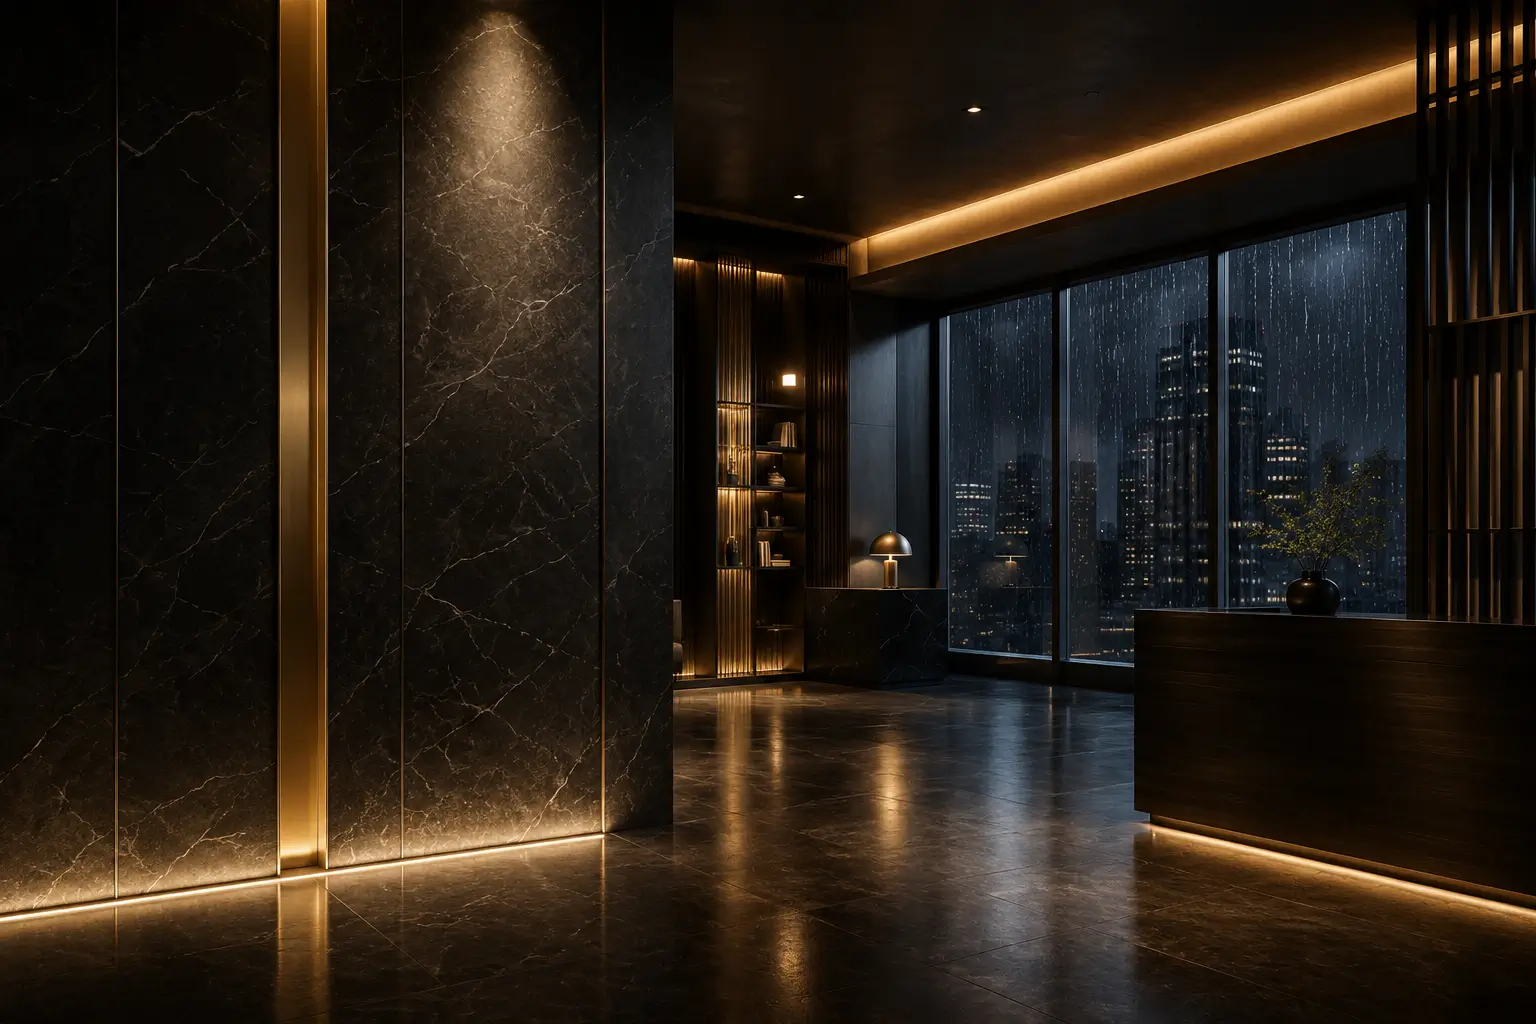
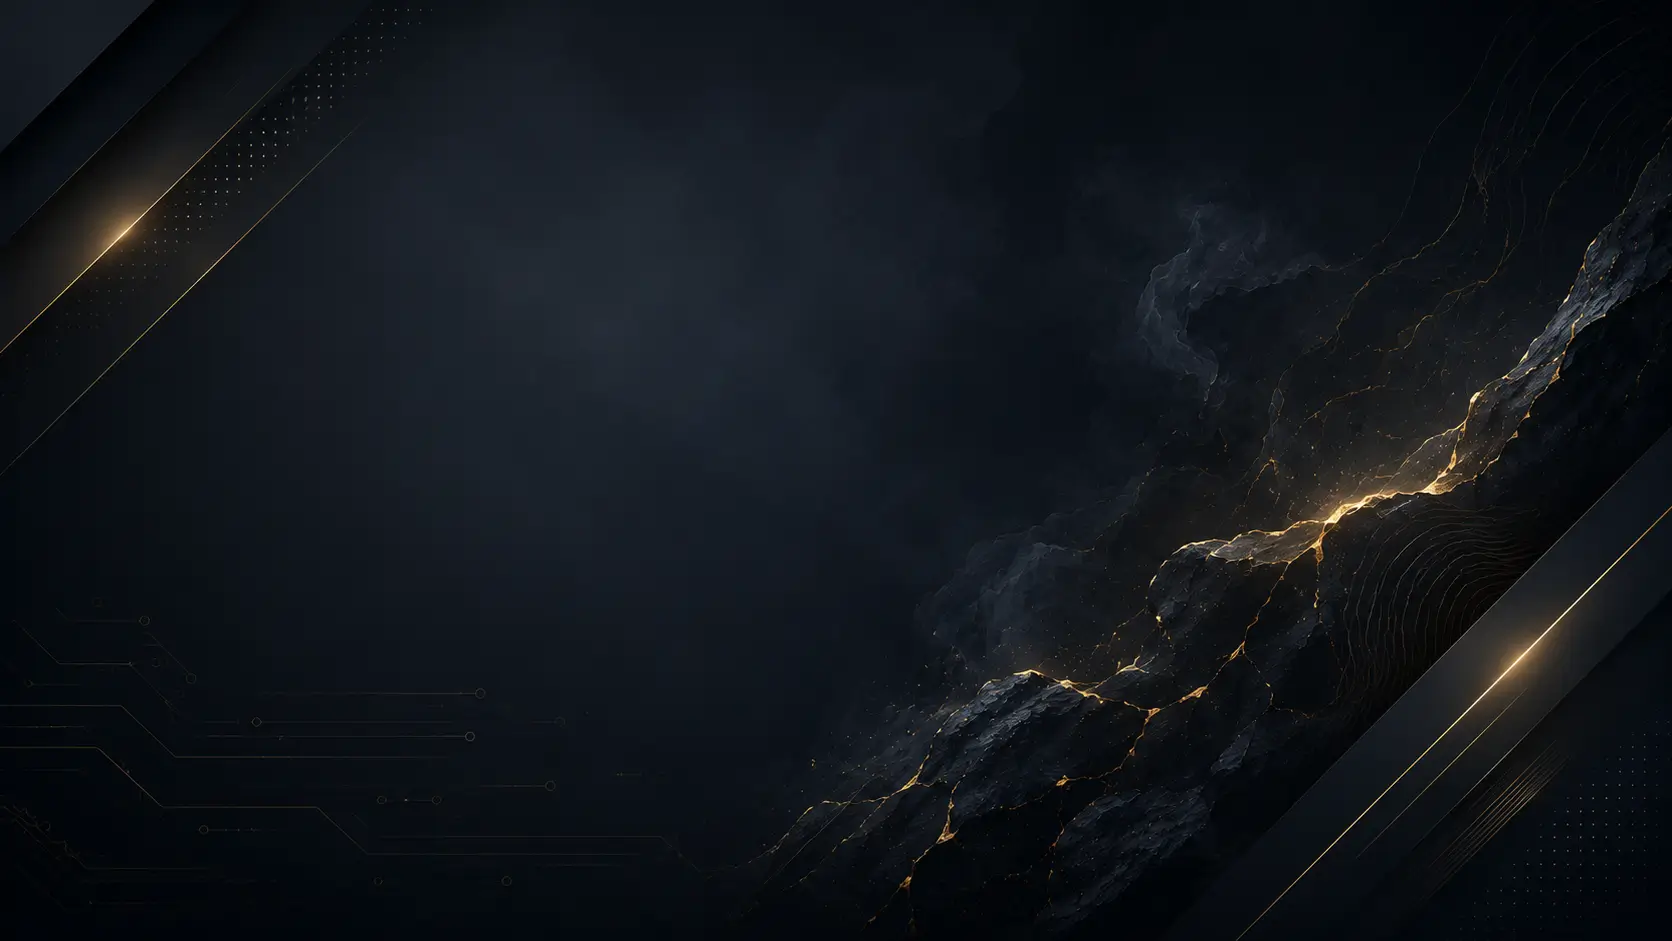
feat(home): refine hero layout, unified background, and navigation presentation

diff --git a/frontend/src/styles/navigation.css b/frontend/src/styles/navigation.css
@@ -1,5 +1,30 @@
 .app-shell {
   --navigation-height: 4.5rem;
+  --page-background-image: none;
+  --page-background-opacity: 0.74;
+}
+
+.app-shell--home {
+  --page-background-image: url("../assets/images/backgrounds/background-home-hero.webp");
+}
+
+.app-shell--with-page-background {
+  position: relative;
+  isolation: isolate;
+  background: transparent;
+}
+
+.app-shell--with-page-background::before {
+  content: "";
+  position: fixed;
+  inset: 0;
+  z-index: -2;
+  background-image: var(--page-background-image);
+  background-position: center;
+  background-size: cover;
+  background-repeat: no-repeat;
+  opacity: var(--page-background-opacity);
+  pointer-events: none;
 }
 
 .app-shell__content {
@@ -14,39 +39,50 @@
   background: rgba(11, 11, 13, 0.94);
   border-bottom: 1px solid var(--color-border-default);
   box-shadow: var(--shadow-soft);
+  backdrop-filter: blur(1rem);
+}
+
+.app-shell--with-page-background .site-header {
+  background: transparent;
+  box-shadow: none;
+  backdrop-filter: none;
 }
 
 .site-nav {
   min-height: var(--navigation-height);
   display: flex;
   align-items: center;
-  gap: var(--space-lg);
+  gap: var(--space-xl);
 }
 
 .site-nav__brand {
   display: inline-flex;
-  min-height: 2.75rem;
   align-items: center;
-  color: var(--color-text-primary);
-  font: var(--type-navigation);
-  letter-spacing: 0;
+  justify-content: center;
+  width: 2.625rem;
+  height: 2.625rem;
+  flex: 0 0 auto;
   text-decoration: none;
-  white-space: nowrap;
+  border-radius: var(--radius-lg);
   transition: var(--motion-transition-interactive);
 }
 
 .site-nav__brand:hover,
 .site-nav__brand:focus-visible {
-  color: var(--color-gold-hover);
   transform: var(--motion-hover-raise);
+}
+
+.site-nav__brand img {
+  width: 2.625rem;
+  height: 2.625rem;
 }
 
 .site-nav__menu {
   flex: 1;
   display: flex;
   align-items: center;
-  justify-content: space-between;
-  gap: var(--space-xl);
+  justify-content: flex-end;
+  gap: var(--space-lg);
 }
 
 .site-nav__links,
@@ -58,6 +94,7 @@
 
 .site-nav__link,
 .site-nav__external-link {
+  position: relative;
   min-height: 2.75rem;
   display: inline-flex;
   align-items: center;
@@ -71,7 +108,32 @@
 }
 
 .site-nav__link:hover,
-.site-nav__link:focus-visible,
+.site-nav__link:focus-visible {
+  color: var(--color-gold-hover);
+  text-decoration: none;
+}
+
+.site-nav__link::after {
+  content: "";
+  position: absolute;
+  left: var(--space-sm);
+  right: var(--space-sm);
+  bottom: 0.45rem;
+  height: 1px;
+  background: currentColor;
+  opacity: 0;
+  transform: scaleX(0.35);
+  transform-origin: center;
+  transition: var(--motion-transition-interactive);
+}
+
+.site-nav__link:hover::after,
+.site-nav__link:focus-visible::after,
+.site-nav__link--active::after {
+  opacity: 1;
+  transform: scaleX(1);
+}
+
 .site-nav__external-link:hover,
 .site-nav__external-link:focus-visible {
   background: var(--color-surface);
@@ -81,21 +143,21 @@
 }
 
 .site-nav__link--active {
-  background: var(--color-surface);
   color: var(--color-gold-primary);
-  box-shadow: inset 0 -1px 0 var(--color-border-hover);
 }
 
 .site-nav__external-link img {
   width: 1rem;
   height: 1rem;
-  filter: invert(89%) sepia(8%) saturate(101%) hue-rotate(201deg) brightness(89%) contrast(86%);
+  filter: invert(89%) sepia(8%) saturate(101%) hue-rotate(201deg)
+    brightness(89%) contrast(86%);
   transition: var(--motion-transition-media);
 }
 
 .site-nav__external-link:hover img,
 .site-nav__external-link:focus-visible img {
-  filter: invert(82%) sepia(58%) saturate(436%) hue-rotate(1deg) brightness(95%) contrast(88%);
+  filter: invert(82%) sepia(58%) saturate(436%) hue-rotate(1deg) brightness(95%)
+    contrast(88%);
 }
 
 .site-nav__toggle {
@@ -120,13 +182,18 @@
 .site-nav__toggle img {
   width: 1.25rem;
   height: 1.25rem;
-  filter: invert(97%) sepia(5%) saturate(116%) hue-rotate(354deg) brightness(97%) contrast(96%);
+  filter: invert(97%) sepia(5%) saturate(116%) hue-rotate(354deg)
+    brightness(97%) contrast(96%);
   transition: var(--motion-transition-media);
 }
 
 .site-footer {
   border-top: 1px solid var(--color-border-default);
   background: var(--color-background-secondary);
+}
+
+.app-shell--with-page-background .site-footer {
+  background: transparent;
 }
 
 .site-footer .page-container {
@@ -193,7 +260,8 @@
 
   .site-nav__menu[data-open="true"] {
     display: flex;
-    animation: dialog-enter var(--motion-duration-base) var(--motion-ease-standard) both;
+    animation: dialog-enter var(--motion-duration-base)
+      var(--motion-ease-standard) both;
   }
 
   .site-nav__links,

diff --git a/frontend/src/styles/home.css b/frontend/src/styles/home.css
@@ -1,16 +1,18 @@
 .home-page {
+  --home-footer-height: calc(4rem + 1px);
+
   min-height: 100%;
-  background: var(--color-background-primary);
+  background: transparent;
 }
 
 .home-hero {
   position: relative;
   isolation: isolate;
-  min-height: calc(100svh - var(--navigation-height) - 4rem);
+  min-height: calc(100svh - var(--navigation-height) - var(--home-footer-height));
   display: grid;
   align-items: center;
   overflow: hidden;
-  background: var(--color-background-primary);
+  background: transparent;
 }
 
 .home-hero::before {
@@ -20,34 +22,16 @@
   z-index: -1;
   border: 1px solid var(--color-border-default);
   border-radius: var(--radius-lg);
+  background: transparent;
   pointer-events: none;
-}
-
-.home-hero__background {
-  position: absolute;
-  inset: 0;
-  z-index: -2;
-  display: flex;
-  align-items: center;
-  justify-content: flex-end;
-  padding-inline: var(--container-gutter);
-  background: var(--color-background-primary);
-  pointer-events: none;
-}
-
-.home-hero__background img {
-  width: min(44rem, 72vw);
-  opacity: 0.08;
-  filter: saturate(0.8);
-  transition: var(--motion-transition-media);
 }
 
 .home-hero__content {
   position: relative;
   display: grid;
-  gap: var(--space-lg);
+  gap: var(--space-md);
   align-content: center;
-  padding-block: var(--space-4xl);
+  padding-block: clamp(var(--space-4xl), 12vh, 8rem);
 }
 
 .home-hero__eyebrow {
@@ -58,16 +42,18 @@
 .home-hero h1 {
   max-width: 16ch;
   font: var(--type-hero);
+  text-shadow: 0 0.5rem 2rem rgba(0, 0, 0, 0.36);
 }
 
 .home-hero__introduction {
-  max-width: 42rem;
+  max-width: 39rem;
   color: var(--color-text-secondary);
   font: var(--type-body-large);
 }
 
 .home-hero__mission {
-  max-width: 40rem;
+  max-width: 36rem;
+  margin-top: var(--space-xs);
   padding: var(--space-md) 0 var(--space-md) var(--space-lg);
   border-left: 1px solid var(--color-border-hover);
 }
@@ -109,20 +95,12 @@
 
 @media (max-width: 48rem) {
   .home-hero {
-    min-height: auto;
+    min-height: calc(100svh - var(--navigation-height) - var(--home-footer-height));
     align-items: start;
   }
 
   .home-hero::before {
     inset: var(--space-md);
-  }
-
-  .home-hero__background {
-    justify-content: center;
-  }
-
-  .home-hero__background img {
-    width: min(28rem, 110vw);
   }
 
   .home-hero__content {

diff --git a/frontend/src/App.jsx b/frontend/src/App.jsx
@@ -1,4 +1,4 @@
-import { Route, Routes } from 'react-router-dom';
+import { Route, Routes, useLocation } from 'react-router-dom';
 import Footer from './components/Footer.jsx';
 import Navigation from './components/Navigation.jsx';
 import About from './pages/About.jsx';
@@ -10,8 +10,15 @@ import Projects from './pages/Projects.jsx';
 import './styles/navigation.css';
 
 function App() {
+  const { pathname } = useLocation();
+  const isHomePage = pathname === '/';
+
   return (
-    <div className="app-shell">
+    <div
+      className={
+        isHomePage ? 'app-shell app-shell--with-page-background app-shell--home' : 'app-shell'
+      }
+    >
       <Navigation />
       <main className="app-shell__content">
         <Routes>

diff --git a/frontend/src/components/HomeHero.jsx b/frontend/src/components/HomeHero.jsx
@@ -3,10 +3,6 @@ import { Link } from 'react-router-dom';
 function HomeHero() {
   return (
     <section className="home-hero" aria-labelledby="home-hero-title">
-      <div className="home-hero__background" aria-hidden="true">
-        <img src="/favicon.svg" alt="" />
-      </div>
-
       <div className="home-hero__content page-container">
         <p className="home-hero__eyebrow">Software Developer Portfolio</p>
         <h1 id="home-hero-title">donwilson-dev</h1>
@@ -18,7 +14,7 @@ function HomeHero() {
           <p>&ldquo;Does it serve a purpose, and do I enjoy looking at it?&rdquo;</p>
         </blockquote>
         <Link className="home-hero__cta" to="/projects">
-          View Projects
+          Explore Projects
         </Link>
       </div>
     </section>

diff --git a/frontend/src/components/Navigation.jsx b/frontend/src/components/Navigation.jsx
@@ -41,7 +41,8 @@ function Navigation() {
     <header className="site-header">
       <nav className="site-nav page-container" aria-label="Primary navigation">
         <Link to="/" className="site-nav__brand" onClick={closeMenu}>
-          donwilson-dev
+          <img src="/web-app-manifest-192x192.png" alt="" aria-hidden="true" />
+          <span className="sr-only">donwilson-dev home</span>
         </Link>
 
         <button